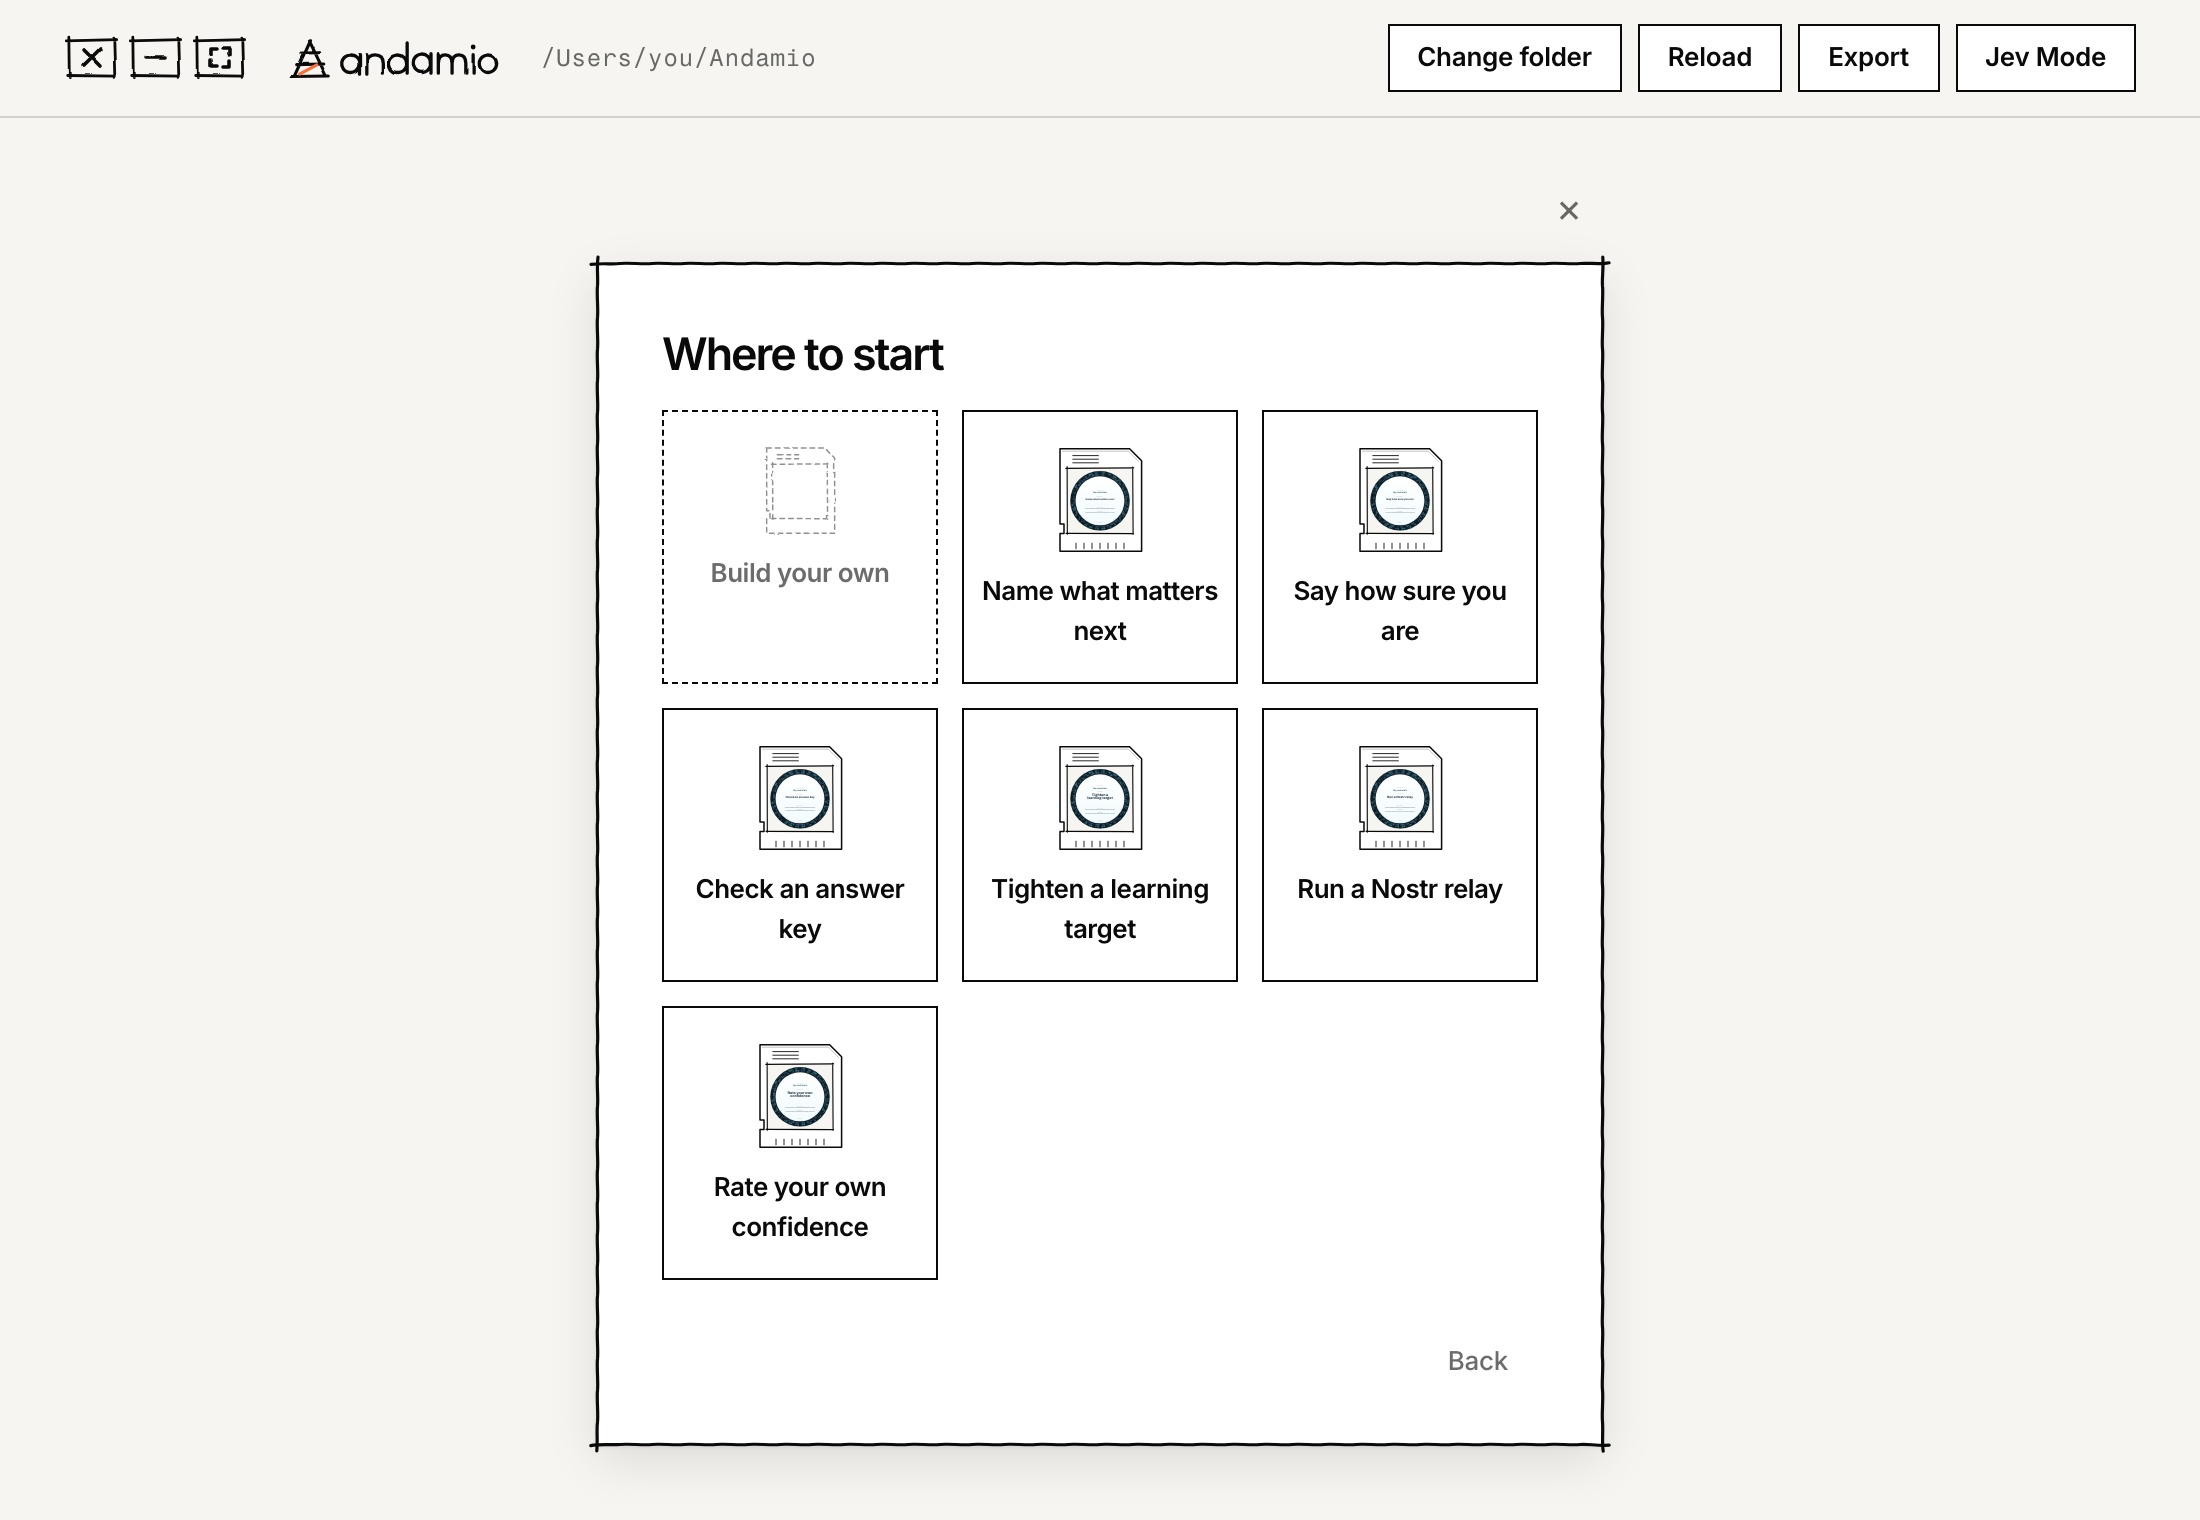
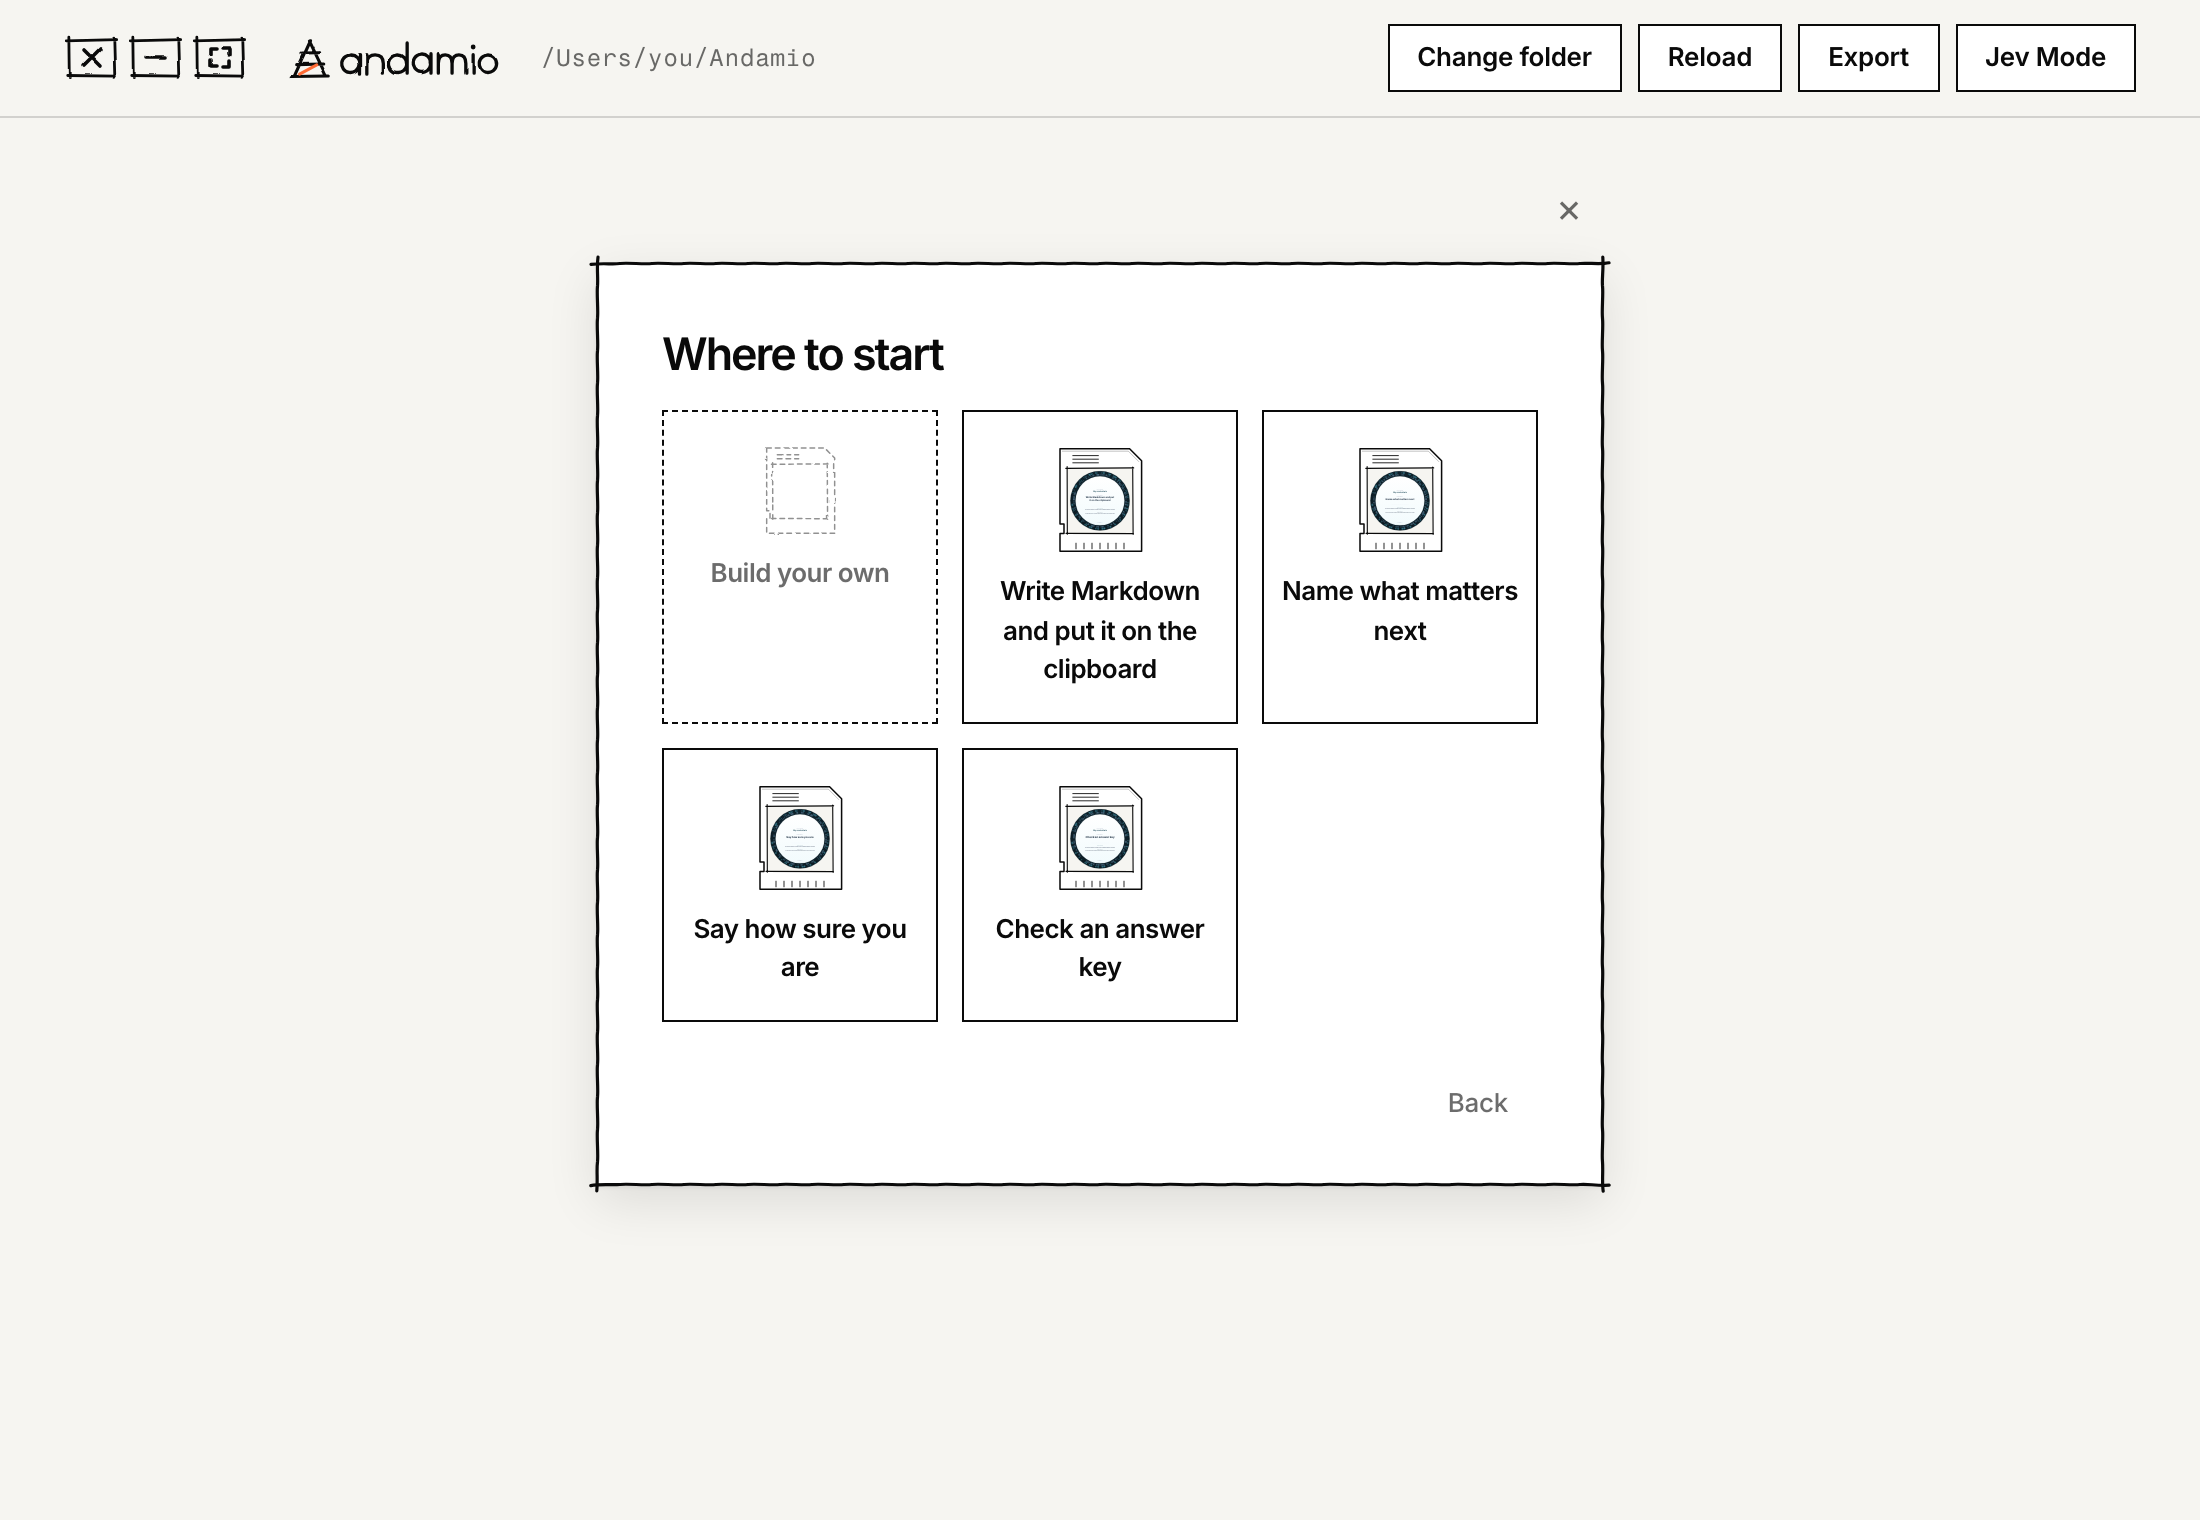
docs(shots): picture adding, showing and deleting collections

diff --git a/src/shots/shots.ts b/src/shots/shots.ts
@@ -1054,6 +1054,52 @@ export const SHOTS: readonly Shot[] = [
     expect: { text: "Cheapest first" },
     clip: { selector: ".deck-card", pad: 16 },
   },
+
+  // Collections (collections plan U7): the add deck's first card and a built-in's card, Home
+  // after adding Nostr relays, and a collection on its way to the trash.
+  {
+    id: "collection-add",
+    page: "how-to/use-collections",
+    route: { view: "deck", deck: "collection" },
+    seed: "full",
+    jev: "off",
+    expect: { text: "Start an empty one" },
+  },
+  {
+    id: "collection-builtin",
+    page: "how-to/use-collections",
+    route: { view: "deck", deck: "collection" },
+    seed: "full",
+    jev: "off",
+    expect: { text: "Add the collection" },
+    steps: [{ click: { button: "Nostr relays" } }, { waitFor: { text: "Add the collection" } }],
+  },
+  {
+    // Added through the deck, so Home shows the two groups with the new one lit, scrolled
+    // to the new group.
+    id: "home-collections",
+    page: "how-to/use-collections",
+    route: { view: "home" },
+    seed: "full",
+    jev: "off",
+    expect: { selector: ".collection-group.lit" },
+    steps: [
+      { click: { button: "Add a collection" } },
+      { click: { button: "Nostr relays" } },
+      { click: { button: "Add the collection" } },
+      { waitFor: { selector: ".collection-group.lit" } },
+      { scroll: { selector: ".collection-group.lit" } },
+    ],
+  },
+  {
+    id: "collection-delete",
+    page: "how-to/use-collections",
+    route: { view: "deck", deck: "trash", item: { kind: "collection", collectionSlug: "my-credentials" } },
+    seed: "full",
+    jev: "off",
+    expect: { text: "Move My credentials to the trash" },
+    clip: { selector: ".deck-card", pad: 16 },
+  },
 ];
 
 /** Marks a route kind no shot pictures yet. */
@@ -1073,21 +1119,21 @@ export function routeKind(route: Route | "gate"): RouteKind {
 /** For each route kind, the shots that picture it, or NOT_PICTURED. Every shot is listed under its own kind. */
 export const COVERAGE: Record<RouteKind, readonly string[] | typeof NOT_PICTURED> = {
   gate: ["first-run"],
-  home: ["home-empty", "home", "home-needs", "router-door"],
+  home: ["home-empty", "home", "home-needs", "router-door", "home-collections"],
   "deck:credential": ["credential-start", "credential-target"],
   "deck:agent": ["first-test-agent", "first-test-hand", "first-test-judge", "first-test-home", "agent-new"],
   "deck:test": ["test-hand", "test-reply", "judge", "go-to-offer", "missed-points", "held", "jev-ask", "jev-cleanup", "jev-sends", "jev-calls", "jev-record", "jev-reason", "case-check", "case-reading", "case-missed", "case-reason", "case-cleaned"],
   "deck:edit-credential": ["edit-retest", "go-to-flagged", "paste-image", "add-video"],
   "deck:edit-agent": ["agent-params"],
+  // Rename is one name field, which the guide describes in words.
   "deck:edit-collection": NOT_PICTURED,
   "deck:handoffs": ["handoffs-box"],
   "deck:edit-handoff": ["handoff-edit"],
-  "deck:trash": ["trash-badge", "trash-agent"],
+  "deck:trash": ["trash-badge", "trash-agent", "collection-delete"],
   "deck:jev": ["jev-off", "jev-on"],
   "deck:router": ["router-ask", "router-card", "router-also"],
   "deck:cost-order": ["cost-order"],
-  // Pictured by the collections plan's screenshots unit.
-  "deck:collection": NOT_PICTURED,
+  "deck:collection": ["collection-add", "collection-builtin"],
   "item:badge": ["badge-replies", "badge-page", "go-to-badge"],
   "item:agent": ["agent-page"],
   // A handoff opens as its own item only once two or more have results; the sample's has none.
